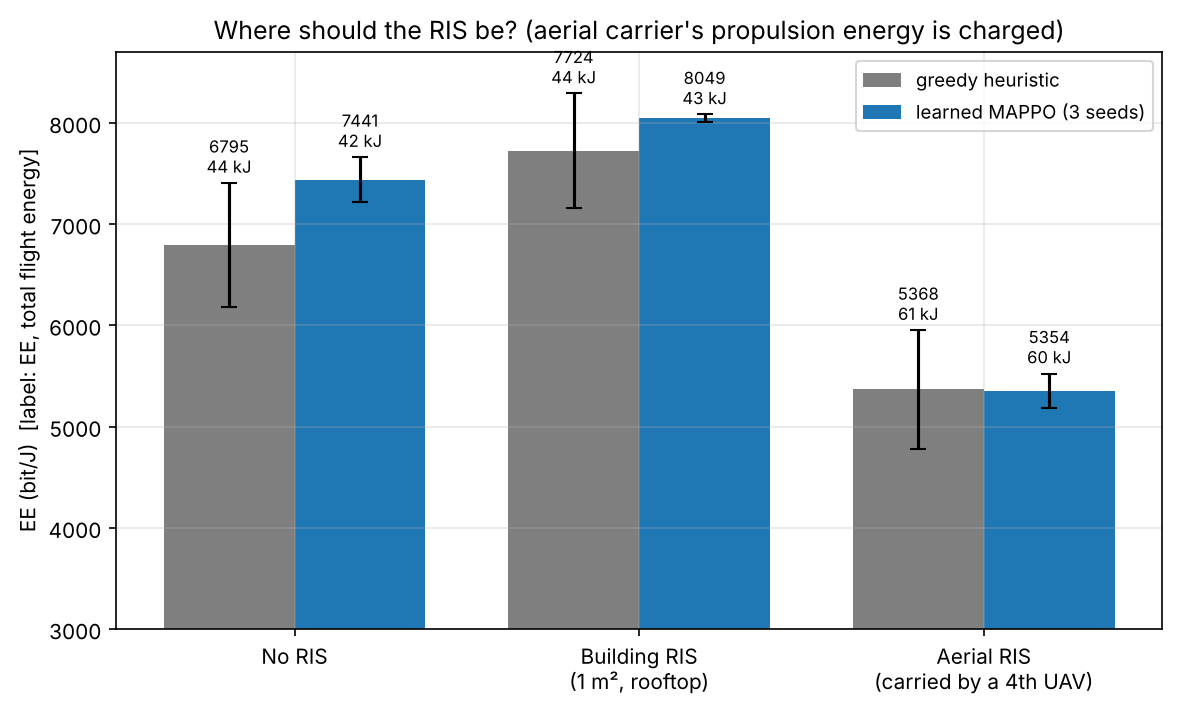
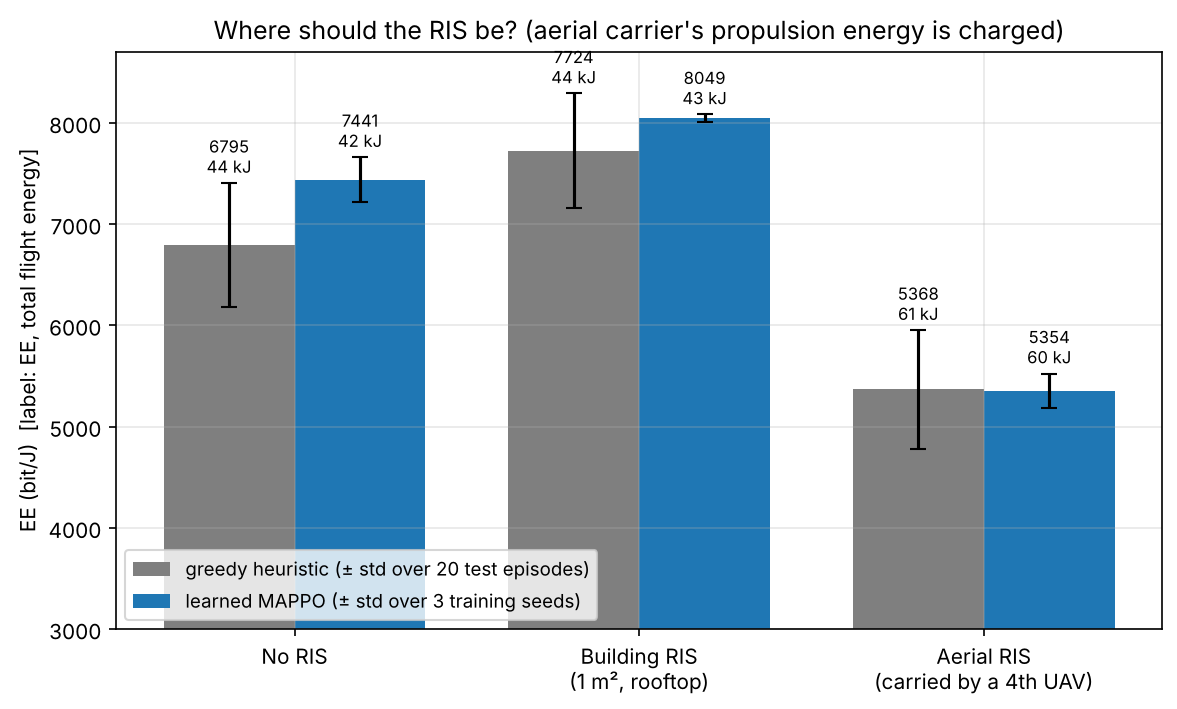
v9: RIS-value figure legend states what each error bar measures
Claude-Session: https://claude.ai/code/session_019AT5ngwrNSJJrMB93Av9qi

Changed region(s): [[0.0918, 0.7757, 0.52, 0.8999], [0.7341, 0.0931, 0.9788, 0.1862]]

diff --git a/v9/plots.py b/v9/plots.py
@@ -339,7 +339,8 @@ def plot_ris_value():
              ("Aerial RIS\n(carried by a 4th UAV)", heur("aerial", "timeshare"), learned("aerial"))]
     fig, ax = plt.subplots(figsize=(9, 5))
     w = 0.38
-    for j, (lab, col) in enumerate((("greedy heuristic", "C7"), ("learned MAPPO (3 seeds)", "C0"))):
+    for j, (lab, col) in enumerate((("greedy heuristic (± std over 20 test episodes)", "C7"),
+                                    ("learned MAPPO (± std over 3 training seeds)", "C0"))):
         for i, (_, h, l) in enumerate(cases):
             v = h if j == 0 else l
             if v is None:
